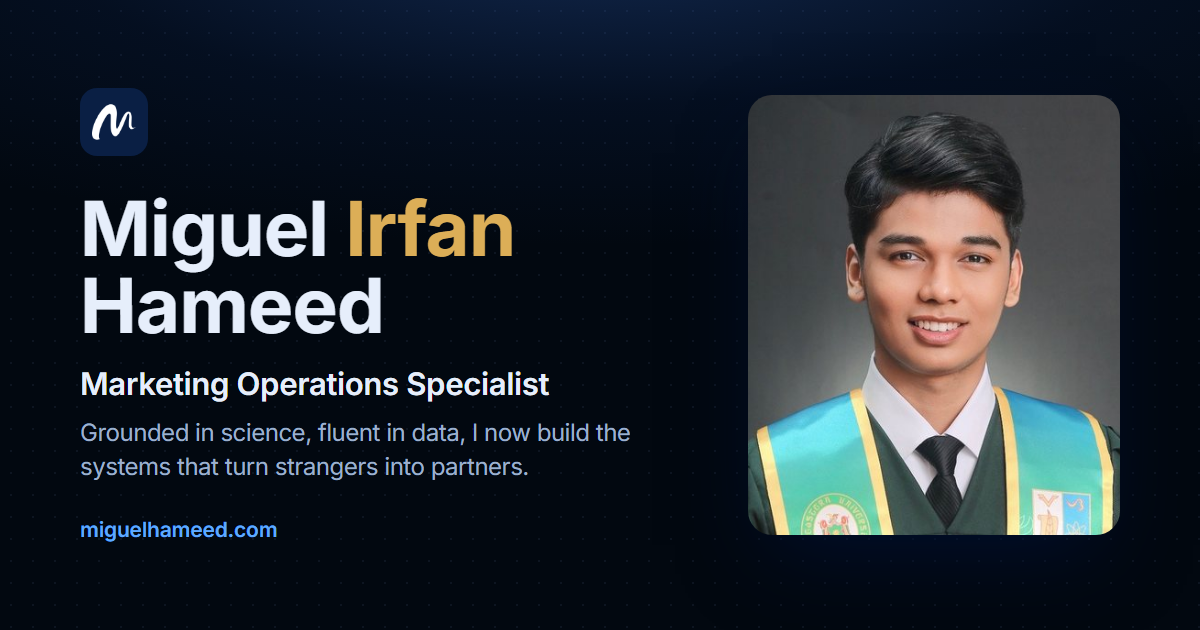
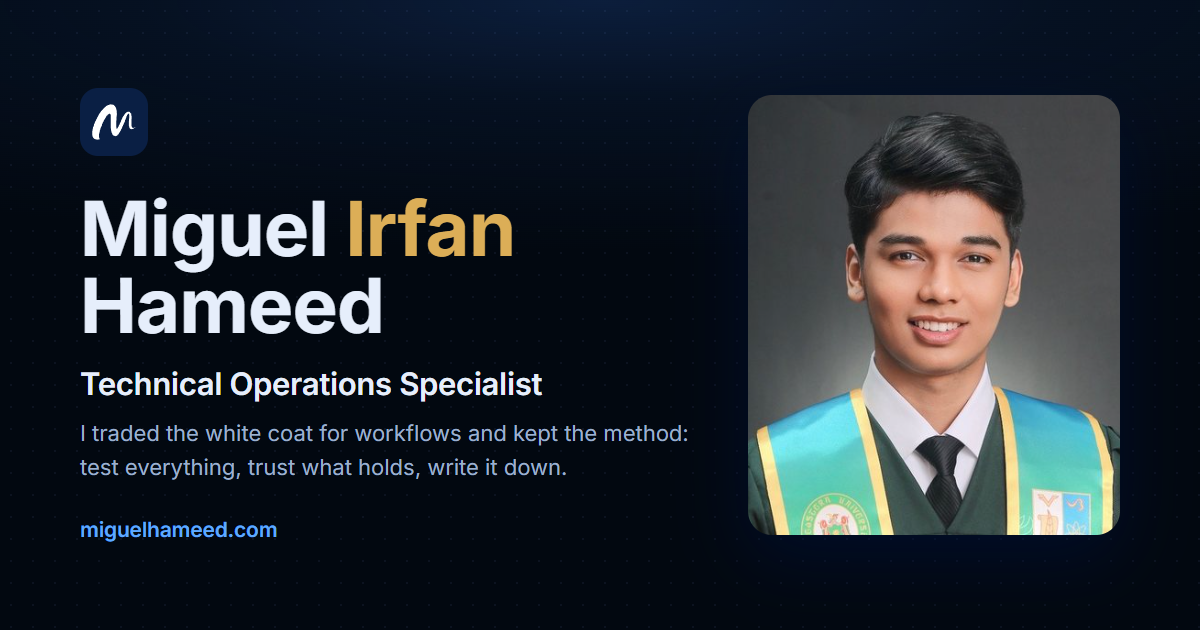
Technical operations first: title, opening line, hashtags, Skills names and the share card

Changed region(s): [[0.0617, 0.6635, 0.5858, 0.754], [0.0617, 0.573, 0.4625, 0.6333]]

diff --git a/index.html b/index.html
@@ -4,8 +4,8 @@
   <meta charset="utf-8" />
   <meta name="robots" content="noindex, nofollow" />
   <meta name="viewport" content="width=device-width, initial-scale=1" />
-  <title>Miguel Irfan Hameed — Marketing Operations Specialist</title>
-  <meta name="description" content="Miguel Irfan Hameed, Marketing Operations Specialist in Quezon City, Philippines. Grounded in science, fluent in data, I now build the systems that turn strangers into partners. Open to work anywhere." />
+  <title>Miguel Irfan Hameed — Technical Operations Specialist</title>
+  <meta name="description" content="Miguel Irfan Hameed, Technical Operations Specialist in Quezon City, Philippines. I traded the white coat for workflows and kept the method: test everything, trust what holds, write it down. Open to work anywhere." />
   <meta name="theme-color" content="#182024" />
   <link rel="canonical" href="https://miguelhameed.com/" />
   <link rel="icon" href="favicon.ico" />
@@ -14,15 +14,15 @@
   <meta property="og:type" content="profile" />
   <meta property="og:site_name" content="Miguel Irfan Hameed" />
   <meta property="og:url" content="https://miguelhameed.com/" />
-  <meta property="og:title" content="Miguel Irfan Hameed — Marketing Operations Specialist" />
-  <meta property="og:description" content="Grounded in science, fluent in data, I now build the systems that turn strangers into partners. Quezon City, Philippines — open to work anywhere." />
+  <meta property="og:title" content="Miguel Irfan Hameed — Technical Operations Specialist" />
+  <meta property="og:description" content="I traded the white coat for workflows and kept the method: test everything, trust what holds, write it down. Quezon City, Philippines — open to work anywhere." />
   <meta property="og:image" content="https://miguelhameed.com/images/site/og-image.png" />
   <meta property="og:image:width" content="1200" />
   <meta property="og:image:height" content="630" />
-  <meta property="og:image:alt" content="Miguel Irfan Hameed — Marketing Operations Specialist, Quezon City" />
+  <meta property="og:image:alt" content="Miguel Irfan Hameed — Technical Operations Specialist, Quezon City" />
   <meta name="twitter:card" content="summary_large_image" />
-  <meta name="twitter:title" content="Miguel Irfan Hameed — Marketing Operations Specialist" />
-  <meta name="twitter:description" content="Grounded in science, fluent in data, I now build the systems that turn strangers into partners. Open to work anywhere." />
+  <meta name="twitter:title" content="Miguel Irfan Hameed — Technical Operations Specialist" />
+  <meta name="twitter:description" content="I traded the white coat for workflows and kept the method: test everything, trust what holds, write it down. Open to work anywhere." />
   <meta name="twitter:image" content="https://miguelhameed.com/images/site/og-image.png" />
   <link rel="preload" href="fonts/inter-400.woff2" as="font" type="font/woff2" crossorigin />
   <link rel="stylesheet" href="fonts/fonts.css" />
@@ -33,7 +33,7 @@
   "@type": "Person",
   "name": "Miguel Irfan Hameed",
   "alternateName": "Miguel Hameed",
-  "jobTitle": "Marketing Operations Specialist",
+  "jobTitle": "Technical Operations Specialist",
   "url": "https://miguelhameed.com/",
   "image": "https://miguelhameed.com/images/site/headshot.jpg",
   "email": "mailto:miguelhameed@gmail.com",
@@ -51,11 +51,12 @@
     "name": "Far Eastern University \u2013 Manila"
   },
   "knowsAbout": [
-    "Marketing operations",
-    "Content operations",
-    "Lead generation",
+    "Technical operations",
+    "Workflow design",
+    "Process documentation",
+    "AI agents",
     "Pipeline management",
-    "AI workflows"
+    "Marketing operations"
   ]
 }
   </script>
@@ -130,7 +131,7 @@
           <span data-head-avatar></span>
           <div class="pane-title">
             <p class="pane-h" id="pane-title">Miguel Hameed</p>
-            <p id="pane-sub">Marketing Operations Specialist · Quezon City, Philippines</p>
+            <p id="pane-sub">Technical Operations Specialist · Quezon City, Philippines</p>
           </div>
           <a class="mob-mail" href="#" data-mail aria-label="Email Miguel">
             <svg viewBox="0 0 24 24" aria-hidden="true"><path d="M4 6h16a1 1 0 0 1 1 1v10a1 1 0 0 1-1 1H4a1 1 0 0 1-1-1V7a1 1 0 0 1 1-1zm0 1.6V17h16V7.6l-8 5.2z"/></svg>
@@ -140,7 +141,7 @@
           </button>
         </header>
 
-        <h1 class="sr-only">Miguel Hameed — Marketing Operations Specialist</h1>
+        <h1 class="sr-only">Miguel Hameed — Technical Operations Specialist</h1>
         <div class="feed" id="feed">
           <noscript><p class="noscript">This page needs JavaScript to show its content. You can still reach Miguel at
             <a href="mailto:miguelhameed@gmail.com">miguelhameed@gmail.com</a>.</p></noscript>

diff --git a/projects/index.html b/projects/index.html
@@ -19,7 +19,7 @@
   <meta property="og:image" content="https://miguelhameed.com/images/site/og-image.png" />
   <meta property="og:image:width" content="1200" />
   <meta property="og:image:height" content="630" />
-  <meta property="og:image:alt" content="Miguel Irfan Hameed — Marketing Operations Specialist, Quezon City" />
+  <meta property="og:image:alt" content="Miguel Irfan Hameed — Technical Operations Specialist, Quezon City" />
   <meta name="twitter:card" content="summary_large_image" />
   <meta name="twitter:title" content="Projects — Miguel Irfan Hameed" />
   <meta name="twitter:description" content="Miguel Irfan Hameed's own projects: MAPA, a road-passability app for Metro Manila, and this site." />
@@ -33,7 +33,7 @@
   "@type": "Person",
   "name": "Miguel Irfan Hameed",
   "alternateName": "Miguel Hameed",
-  "jobTitle": "Marketing Operations Specialist",
+  "jobTitle": "Technical Operations Specialist",
   "url": "https://miguelhameed.com/",
   "image": "https://miguelhameed.com/images/site/headshot.jpg",
   "email": "mailto:miguelhameed@gmail.com",
@@ -51,11 +51,12 @@
     "name": "Far Eastern University \u2013 Manila"
   },
   "knowsAbout": [
-    "Marketing operations",
-    "Content operations",
-    "Lead generation",
+    "Technical operations",
+    "Workflow design",
+    "Process documentation",
+    "AI agents",
     "Pipeline management",
-    "AI workflows"
+    "Marketing operations"
   ]
 }
   </script>
@@ -130,7 +131,7 @@
           <span data-head-avatar></span>
           <div class="pane-title">
             <p class="pane-h" id="pane-title">Miguel Hameed</p>
-            <p id="pane-sub">Marketing Operations Specialist · Quezon City, Philippines</p>
+            <p id="pane-sub">Technical Operations Specialist · Quezon City, Philippines</p>
           </div>
           <a class="mob-mail" href="#" data-mail aria-label="Email Miguel">
             <svg viewBox="0 0 24 24" aria-hidden="true"><path d="M4 6h16a1 1 0 0 1 1 1v10a1 1 0 0 1-1 1H4a1 1 0 0 1-1-1V7a1 1 0 0 1 1-1zm0 1.6V17h16V7.6l-8 5.2z"/></svg>
@@ -140,7 +141,7 @@
           </button>
         </header>
 
-        <h1 class="sr-only">Miguel Hameed — Marketing Operations Specialist</h1>
+        <h1 class="sr-only">Miguel Hameed — Technical Operations Specialist</h1>
         <div class="feed" id="feed">
           <noscript><p class="noscript">This page needs JavaScript to show its content. You can still reach Miguel at
             <a href="mailto:miguelhameed@gmail.com">miguelhameed@gmail.com</a>.</p></noscript>

diff --git a/content/skills.js b/content/skills.js
@@ -4,17 +4,17 @@ Object.assign(window.SITE, {
   skillsSub: 'This is the list, minus the ones that I’d have to google.',
 
   skills: [
-    { group: 'Marketing operations',
-      does: ['Content pipeline management', 'Editorial workflows', 'Content writing and editing'],
-      tools: ['Buffer', 'GA4'] },
-    { group: 'Pipeline and outreach',
-      does: ['Lead and partner research', 'Lead qualification', 'Pipeline management', 'Competitive research and teardowns', 'Outreach sequencing and replies'],
-      tools: ['Dripify', 'LinkedIn Sales Navigator', 'Apollo'] },
-    { group: 'AI and automation',
-      does: ['Agent and AI Skill building', 'AI workflow mapping'],
-      tools: ['Claude', 'ClickUp AI'] },
-    { group: 'Operations and process',
+    { group: 'Operations and Systems',
       does: ['Workflow design', 'Process documentation', 'Website quality checks'],
       tools: ['ClickUp', 'GitHub', 'Lighthouse', 'HTML/CSS'] },
+    { group: 'Agentic AI and Automations',
+      does: ['Agent and AI Skill building', 'AI workflow mapping'],
+      tools: ['Claude', 'ClickUp AI'] },
+    { group: 'Pipeline and Partnerships',
+      does: ['Lead and partner research', 'Lead qualification', 'Pipeline management', 'Competitive research and teardowns', 'Outreach sequencing and replies'],
+      tools: ['Dripify', 'LinkedIn Sales Navigator', 'Apollo'] },
+    { group: 'Marketing Operations',
+      does: ['Content pipeline management', 'Editorial workflows', 'Content writing and editing'],
+      tools: ['Buffer', 'GA4'] },
   ],
 });

diff --git a/content/person.js b/content/person.js
@@ -6,9 +6,9 @@ Object.assign(window.SITE, {
   person: {
     name: 'Miguel Irfan Hameed',
     shortName: 'Miguel Irfan Hameed',
-    role: 'Marketing Operations Specialist',
-    storyStart: 'Grounded in science, fluent in data,',
-    story: 'I now build the systems that turn strangers into partners.',
+    role: 'Technical Operations Specialist',
+    storyStart: 'I traded the white coat for workflows and kept the method:',
+    story: 'test everything, trust what holds, write it down.',
     location: 'Quezon City, Philippines',
     availability: 'Open to new opportunities, remote or relocation',
     email: 'miguelhameed@gmail.com',
@@ -25,7 +25,7 @@ Object.assign(window.SITE, {
     avatar: 'images/site/headshot-avatar.jpg?v=2',
   },
 
-  tags: ['marketing-operations', 'business-development', 'ai-operations'],
+  tags: ['technical-operations', 'ai-operations', 'marketing-operations'],
 
   highlights: [],
 });
